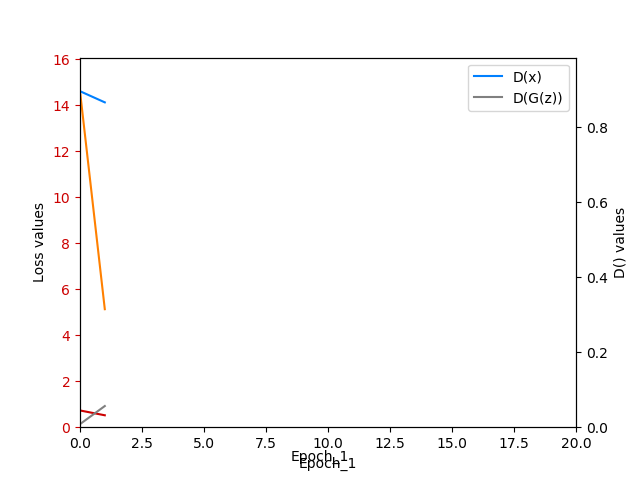
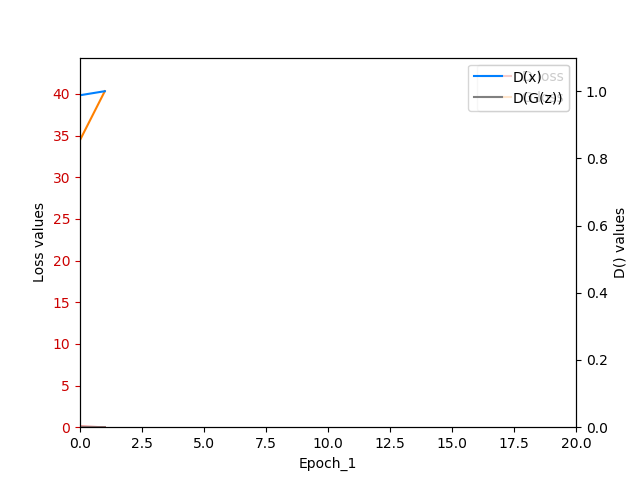
new dcgan readme

diff --git a/src/DCGAN/module/trainer.py b/src/DCGAN/module/trainer.py
@@ -168,6 +168,7 @@ class Trainer():
             if not os.path.exists(filepath):
                 os.mkdir(filepath)
             plt.savefig(filepath+'/'+img_name+'.png')
+            plt.close()
 
     def save_loss_plot(self, img_name='loss'):
         four_records = np.array(self.records).T
@@ -180,6 +181,7 @@ class Trainer():
         ax.plot(four_records[0], label='D loss', color='#CC0000')
         ax.plot(four_records[1], label='G loss', color='#FF8000')
         ax.tick_params('y', colors = '#CC0000')
+        ax.legend()
 
         ax2 = ax.twinx()
         ax2.set_ylim(0, np.max(four_records[2:])*1.1)
@@ -187,14 +189,15 @@ class Trainer():
         ax2.plot(four_records[2], label='D(x)', color='#0080FF')
         ax2.plot(four_records[3], label='D(G(z))', color='#808080')
         ax2.tick_params('y', colors='k')
-        plt.legend()
+        ax2.legend()
 
-        fig.text(0.5, 0.04, img_name, ha='center')
+        # fig.text(0.5, 0.04, img_name, ha='center')
         
         filepath = self.opt.task_dir+'/loss_plots'
         if not os.path.exists(filepath):
             os.mkdir(filepath)
         plt.savefig(filepath+'/'+img_name+'.png')
+        plt.close()
 
 # fig.tight_layout()
 

diff --git a/src/DCGAN/other/create_gif.py b/src/DCGAN/other/create_gif.py
@@ -7,9 +7,11 @@ parser = argparse.ArgumentParser(description='create gifs!')
 parser.add_argument('--dir', type=str, help='the directory that has only the items wanted')
 parser.add_argument('--out', type=str, default='other', help='output directory')
 parser.add_argument('--name', type=str)
+parser.add_argument('--epochs', type=int, default=20)
 args = parser.parse_args()
 
 # to plant within code
+args.epochs=100
 args.dir =  'results/BASIC_MNIST/loss_plots'
 args.name = 'loss_plots'
 # args.dir =  'results/BASIC_MNIST/generated_imgs'
@@ -22,9 +24,15 @@ if args.dir is None:
 
 ## hardcode Epoch_1.png
 plots = []
-for i in range(20):
+total = 100
+for i in range(total):
 	file = args.dir+'/Epoch_%s.png'%i
 	plots.append(imageio.imread(file))
+
+	if i==total-1:
+		plots.append(imageio.imread(file))
+		plots.append(imageio.imread(file))
+
 
 filename = args.out+'/'+args.name+'.gif'
 imageio.mimsave(filename, plots, fps=3)

diff --git a/src/DCGAN/README.md b/src/DCGAN/README.md
@@ -2,15 +2,10 @@
 
 [Goal:] to implement the paper [Unsupervised Representation Learning with Deep Convolutional Generative Adversarial Networks](http://arxiv.org/abs/1511.06434)
 
-## usage:
+### usage:
 run experiments with `python experiments/<python script>`
 
-
-model structure:
-
-<img src="other/DCGAN_model.png" height=300/>
-
-### Results
+### Initial Results
 * For learning rate = 0.0002 (Adam optimizer), batch size = 128, # of epochs = 20:
 <table align='center'>
 <tr align='center'>
@@ -30,48 +25,3 @@ model structure:
 
 ## references: 
 https://github.com/togheppi/DCGAN/blob/master/README.md
-
-
-
-
-
-other
-
-
-After every 100 training iterations, the files `real_samples.png` and `fake_samples.png` are written to disk
-with the samples from the generative model.
-
-After every epoch, models are saved to: `netG_epoch_%d.pth` and `netD_epoch_%d.pth`
-
-## Downloading the dataset
-You can download the LSUN dataset by cloning [this repo](https://github.com/fyu/lsun) and running
-```
-python download.py -c bedroom
-```
-
-## Usage
-```
-usage: main.py [-h] --dataset DATASET --dataroot DATAROOT [--workers WORKERS]
-               [--batchSize BATCHSIZE] [--imageSize IMAGESIZE] [--nz NZ]
-               [--ngf NGF] [--ndf NDF] [--niter NITER] [--lr LR]
-               [--beta1 BETA1] [--cuda] [--ngpu NGPU] [--netG NETG]
-               [--netD NETD]
-
-optional arguments:
-  -h, --help            show this help message and exit
-  --dataset DATASET     cifar10 | lsun | imagenet | folder | lfw
-  --dataroot DATAROOT   path to dataset
-  --workers WORKERS     number of data loading workers
-  --batchSize BATCHSIZE
-                        input batch size
-  --imageSize IMAGESIZE
-                        the height / width of the input image to network
-  --nz NZ               size of the latent z vector
-  --ngf NGF
-  --ndf NDF
-  --niter NITER         number of epochs to train for
-  --lr LR               learning rate, default=0.0002
-  --beta1 BETA1         beta1 for adam. default=0.5
-  --cuda                enables cuda
-  --ngpu NGPU           number of GPUs to use
-  --netG NETG           path to netG (to continue training)
